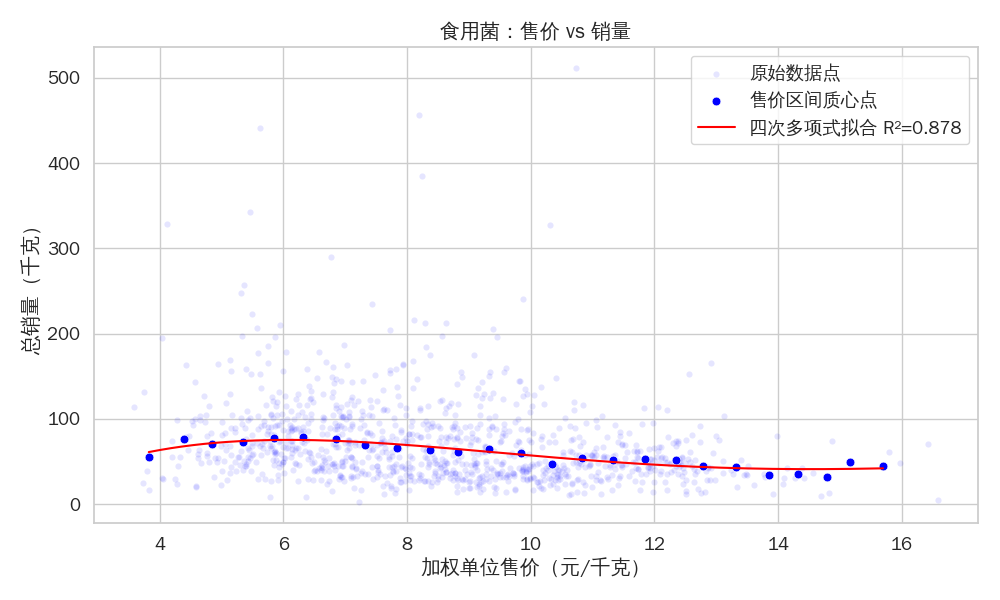
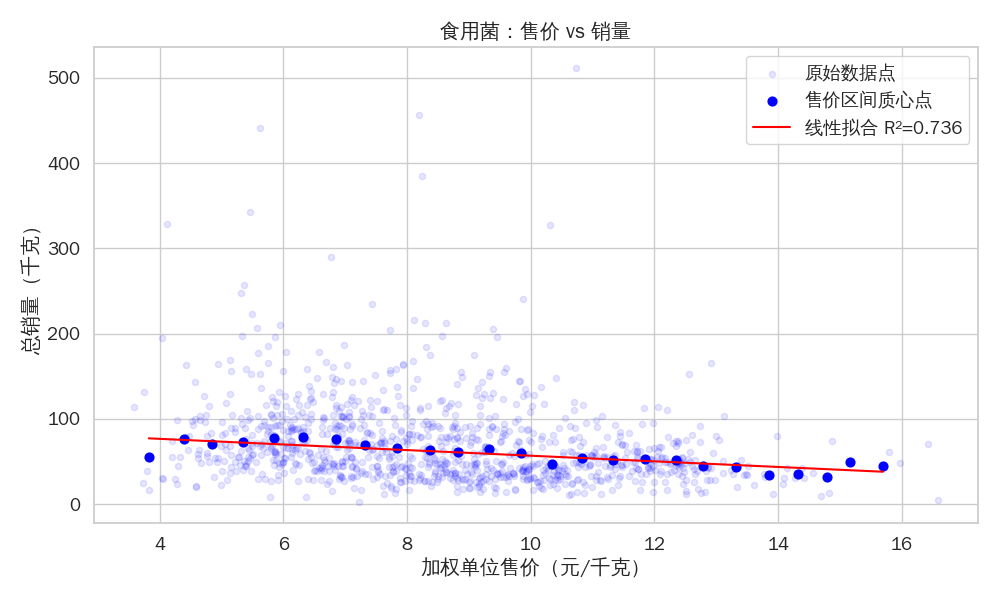
问题二预测解决

diff --git a/Q2_Function_Complete.py b/Q2_Function_Complete.py
@@ -1,0 +1,187 @@
+import os
+import pandas as pd
+import numpy as np
+from prophet import Prophet
+import matplotlib.pyplot as plt
+import seaborn as sns
+sns.set(style="whitegrid", font="WenQuanYi Zen Hei", font_scale=1.2)
+
+# 创建文件夹保存图像
+os.makedirs("每品类成本预测", exist_ok=True)
+df = pd.read_excel("每日品类加权成本.xlsx")
+df['销售日期'] = pd.to_datetime(df['销售日期'])
+
+# 各品类需求函数定义
+demand_functions = {
+    "水生根茎类": {
+        "func_type": "线性",
+        "params": (-3.3695, 66.5862),
+        "price_range": (4.39, 16.90)
+    },
+    "花叶类": {
+        "func_type": "线性",
+        "params": (-17.6906, 273.7243),
+        "price_range": (2.54, 9.88)
+    },
+    "花菜类": {
+        "func_type": "线性",
+        "params": (-1.4875, 51.2450),
+        "price_range": (4.32, 14.29)
+    },
+    "茄类": {
+        "func_type": "指数",
+        "params": (28.0734, -0.0389),
+        "price_range": (3.00, 15.09)
+    },
+    "辣椒类": {
+        "func_type": "反比例",
+        "params": (265.2713, 41.7862),
+        "price_range": (3.39, 16.66)
+    },
+    "食用菌": {
+        "func_type": "线性",
+        "params": (-3.2958, 89.9171),
+        "price_range": (3.82, 15.69)
+    }
+}
+
+# 各品类历史最大销量
+max_sales = {
+    "水生根茎类": 53.49 * 1.2,  # 64.19
+    "花叶类": 233.37 * 1.2,    # 280.04
+    "花菜类": 47.34 * 1.2,     # 56.81
+    "茄类": 32.25 * 1.2,       # 38.70
+    "辣椒类": 122.54 * 1.2,    # 147.05
+    "食用菌": 79.28 * 1.2       # 95.14 (使用历史最大值)
+}
+
+# 需求函数计算
+def calculate_demand(x, func_type, params):
+    if func_type == "线性":
+        a, b = params
+        return a * x + b
+    elif func_type == "指数":
+        a, b = params
+        return a * np.exp(b * x)
+    elif func_type == "反比例":
+        a, b = params
+        return a / (x + 1e-5) + b  # 避免除以0
+    else:
+        raise ValueError(f"未知函数类型: {func_type}")
+
+# 带约束的需求函数
+def bounded_demand(x, func_type, params, category):
+    raw = calculate_demand(x, func_type, params)
+    return max(0, min(raw, max_sales[category]))
+
+# 定价优化函数
+def optimize_price(cost, func_type, params, category, price_range):
+    best_price, best_profit = None, -float('inf')
+    best_sales = 0
+    
+    # 在价格范围内采样100个点
+    prices = np.linspace(price_range[0], price_range[1], 100)
+    for p in prices:
+        # 跳过低于成本的价格
+        if p < cost:
+            continue
+            
+        sales = bounded_demand(p, func_type, params, category)
+        profit = (p - cost) * sales
+        
+        # 寻找最大收益点
+        if profit > best_profit:
+            best_profit = profit
+            best_price = p
+            best_sales = sales
+    
+    # 如果没有找到可行解
+    if best_price is None:
+        return price_range[1], 0, 0
+    
+    return best_price, best_sales, best_profit
+
+# 预测未来一周成本并优化定价
+results = []
+
+for category in df['分类名称'].unique():
+    # 准备Prophet数据
+    category_df = df[df['分类名称'] == category][['销售日期', '加权单位成本']]
+    category_df.columns = ['ds', 'y']
+    
+    # 训练Prophet模型
+    model = Prophet(
+        yearly_seasonality=True,
+        weekly_seasonality=True,
+        daily_seasonality=False,
+        seasonality_mode='additive'
+    )
+    model.add_country_holidays(country_name='CN')
+    model.fit(category_df)
+    
+    # 创建未来日期（2023-07-01 到 2023-07-07）
+    future = pd.DataFrame({
+        'ds': pd.date_range(start='2023-07-01', periods=7)
+    })
+    
+    # 预测成本
+    forecast = model.predict(future)
+    forecast['category'] = category
+    
+    # 可视化预测结果
+    fig = model.plot(forecast)
+    plt.title(f'{category}成本预测')
+    plt.xlabel('日期')
+    plt.ylabel('加权单位成本（元/千克）')
+    plt.tight_layout()
+    plt.savefig(f"每品类成本预测/{category}_成本预测.png")
+    plt.close()
+    
+    # 优化每日定价和补货量
+    func_info = demand_functions[category]
+    func_type = func_info["func_type"]
+    params = func_info["params"]
+    price_range = func_info["price_range"]
+    
+    for i, row in forecast.iterrows():
+        date = row['ds']
+        cost = row['yhat']
+        
+        # 优化定价
+        optimal_price, optimal_sales, profit = optimize_price(
+            cost, func_type, params, category, price_range
+        )
+        
+        results.append({
+            '日期': date.strftime('%Y-%m-%d'),
+            '品类': category,
+            '预测成本(元/千克)': round(cost, 2),
+            '最优定价(元/千克)': round(optimal_price, 2),
+            '补货总量(千克)': round(optimal_sales, 2),
+            '预期收益(元)': round(profit, 2)
+        })
+
+# 保存结果
+results_df = pd.DataFrame(results)
+results_df.to_excel("问题二_各品类补货与定价策略_新版.xlsx", index=False)
+
+# 打印最终结果
+print("\n🎯 问题二最终策略（新版）：")
+print(results_df[['日期', '品类', '预测成本(元/千克)', '最优定价(元/千克)', '补货总量(千克)', '预期收益(元)']])
+
+# 可视化各品类定价策略
+plt.figure(figsize=(12, 8))
+for category in results_df['品类'].unique():
+    cat_df = results_df[results_df['品类'] == category]
+    plt.plot(cat_df['日期'], cat_df['最优定价(元/千克)'], 'o-', label=category)
+    
+plt.title('各品类未来一周最优定价策略')
+plt.xlabel('日期')
+plt.ylabel('最优定价(元/千克)')
+plt.xticks(rotation=45)
+plt.legend()
+plt.tight_layout()
+plt.savefig("各品类最优定价策略_新版.png")
+plt.close()
+
+print("\n✅ 新版结果已保存到'问题二_各品类补货与定价策略_新版.xlsx'")

diff --git a/Q2_Virtual.py b/Q2_Virtual.py
@@ -21,15 +21,14 @@ def format_equation(name, params):
     elif name == "指数":
         a, b = params
         return f"y = {a:.4f}·e^({b:.4f}·x)"
+    elif name == "反比例":
+        a, b = params
+        return f"y = {a:.4f}/x + {b:.4f}"
     elif "多项式" in name:
         terms = [f"{p:.4f}·x^{i}" for i, p in reversed(list(enumerate(params)))]
         return "y = " + " + ".join(terms).replace("+ -", "- ")
     else:
         return "未知函数"
-
-
-# 打印公式
-
 
 # 设置中文和图表风格
 sns.set(style="whitegrid", font="WenQuanYi Zen Hei", font_scale=1.2)
@@ -38,8 +37,6 @@ os.makedirs("每品类售价销量关系图", exist_ok=True)
 # 读取数据
 df = pd.read_excel("每日品类加权成本.xlsx")
 print("每日品类加权成本.xlsx读取完成\n")
-
-df.info()
 
 # 定义拟合函数们
 def linear(x, a, b):
@@ -54,7 +51,10 @@ def power_func(x, a, b):
 def expo_func(x, a, b):
     return a * np.exp(b * x)
 
-    # 添加多项式拟合函数（如二次、三次、四次）
+def inverse_proportion(x, a, b):
+    return a / (x + 1e-5) + b  # 避免除以0
+
+# 添加多项式拟合函数
 def poly2(x, a, b, c):
     return a * x**2 + b * x + c
 
@@ -64,15 +64,13 @@ def poly3(x, a, b, c, d):
 def poly4(x, a, b, c, d, e):
     return a * x**4 + b * x**3 + c * x**2 + d * x + e
 
-
+# 添加反比例函数
 fit_funcs = {
     "线性": linear,
     "对数": log_func,
     "幂函数": power_func,
     "指数": expo_func,
-    "二次多项式": poly2,
-    "三次多项式": poly3,
-    "四次多项式": poly4,
+    "反比例": inverse_proportion,
 }
 
 # 遍历每个品类
@@ -80,7 +78,8 @@ for category in df['分类名称'].unique():
     data = df[df['分类名称'] == category].copy()
     x = data['加权单位售价'].values
     y = data['总销量'].values
-        # 去除离群值（基于 IQR 方法）
+    
+    # 去除离群值（基于 IQR 方法）
     q1_y, q3_y = np.percentile(y, [25, 75])
     iqr_y = q3_y - q1_y
     lower_y = q1_y - 1.5 * iqr_y
@@ -95,8 +94,7 @@ for category in df['分类名称'].unique():
     x = x[mask]
     y = y[mask]
 
-    df_filtered = pd.DataFrame({'加权单位售价': x, '总销量': y})
-    # ✨ 将 x 按 0.2 间隔划分区间，计算每段的质心
+    # 将 x 按 0.5 间隔划分区间，计算每段的质心
     bin_width = 0.5
     x_bins = np.arange(x.min(), x.max() + bin_width, bin_width)
     bin_indices = np.digitize(x, x_bins)
@@ -111,20 +109,10 @@ for category in df['分类名称'].unique():
     # 替换为质心数据
     x = grouped['售价'].values
     y = grouped['销量'].values
-    print(f"🎯 Binning后质心点数：{len(x)}\n")
-
-    print(f"聚合后点数（售价唯一值数量）：{len(x)}")
-    print(f"剔除离群点后数据量：{len(x)}")
-    original_n = len(data)
-    filtered_n = len(x)
-    print(f"📉 离群点剔除：原始 {original_n} 条，剩余 {filtered_n} 条（{(filtered_n/original_n)*100:.1f}%）")
-
-
-
-
+    
     # 输出基本统计数据
     corr, _ = pearsonr(x, y)
-    print(f"👉 分类：{category}")
+    print(f"\n👉 分类：{category}")
     print(f"皮尔逊相关系数：{corr:.4f}")
     print(f"x（售价）范围：{x.min():.2f} ~ {x.max():.2f}")
     print(f"y（销量）范围：{y.min():.2f} ~ {y.max():.2f}")
@@ -146,22 +134,22 @@ for category in df['分类名称'].unique():
                 best_func = func
                 best_name = name
                 best_params = params
-        except:
-            print(f"  {name}拟合失败")
-        if best_func is not None:
-            equation = format_equation(best_name, best_params)
-            print(f"📐 最佳拟合公式（{best_name}）：{equation}\n")
-
+        except Exception as e:
+            print(f"  {name}拟合失败: {str(e)}")
+    
+    if best_func is not None:
+        equation = format_equation(best_name, best_params)
+        print(f"📐 最佳拟合公式（{best_name}）：{equation}")
 
     # 绘图
     plt.figure(figsize=(10, 6))
     
     # 原始数据点（透明显示，表达数据分布）
-    sns.scatterplot(x=data['加权单位售价'].values, y=data['总销量'].values,
-                    s=20, color='blue', alpha=0.1, label="原始数据点")
+    plt.scatter(data['加权单位售价'].values, data['总销量'].values,
+               s=20, color='blue', alpha=0.1, label="原始数据点")
 
     # 质心点（可见）
-    sns.scatterplot(x=x, y=y, s=40, color='blue', label="售价区间质心点")
+    plt.scatter(x, y, s=40, color='blue', label="售价区间质心点")
 
     # 拟合曲线（基于质心）
     if best_func is not None:
@@ -177,5 +165,4 @@ for category in df['分类名称'].unique():
     plt.savefig(f"每品类售价销量关系图/{category}_售价_vs_销量_拟合图-质心.png")
     plt.close()
 
-    print(f"✅ 图像保存完成：{category}_售价_vs_销量_拟合图-质心.png\n")
-
+    print(f"✅ 图像保存完成：{category}_售价_vs_销量_拟合图-质心.png")

diff --git a/Q2_Virtual_Check.py b/Q2_Virtual_Check.py
@@ -1,0 +1,42 @@
+import pandas as pd
+import seaborn as sns
+import matplotlib.pyplot as plt
+from sklearn.isotonic import IsotonicRegression
+import os
+
+# 读取每日品类加权成本表，包含价格和销量
+df = pd.read_excel("每日品类加权成本.xlsx")
+
+# 假设'加权单位售价'是价格列，'总销量'是销量列
+price_col = '加权单位售价'
+sales_col = '总销量'
+
+# 创建输出文件夹
+os.makedirs("每品类价格-销量_等腕回归", exist_ok=True)
+
+sns.set(style="whitegrid", font="WenQuanYi Zen Hei", font_scale=1.2)
+
+# 对每个品类进行等腕回归，并绘图
+for category, data in df.groupby('分类名称'):
+    # 取价格和销量，按价格排序
+    df_cat = data.dropna(subset=[price_col, sales_col]).sort_values(price_col)
+    x = df_cat[price_col].values
+    y = df_cat[sales_col].values
+    
+    # 等腕回归，强制销量随价格单调递减
+    iso = IsotonicRegression(increasing=False, out_of_bounds='clip')
+    y_iso = iso.fit_transform(x, y)
+    
+    # 绘制散点和回归曲线
+    plt.figure(figsize=(10, 5))
+    plt.scatter(x, y, label='原始数据', alpha=0.5, s=20)
+    plt.plot(x, y_iso, color='red', linewidth=2, label='等腕回归 (单调递减)')
+    plt.title(f"{category}：价格 vs 销量（等腕回归平滑）")
+    plt.xlabel("价格（元）")
+    plt.ylabel("销量（千克）")
+    plt.legend()
+    plt.tight_layout()
+    plt.savefig(f"每品类价格-销量_等腕回归/{category}_price_sales_isotonic.png")
+    plt.close()
+
+print("所有品类价格-销量等腕回归图已保存到 ./每品类价格-销量_等腕回归/")
